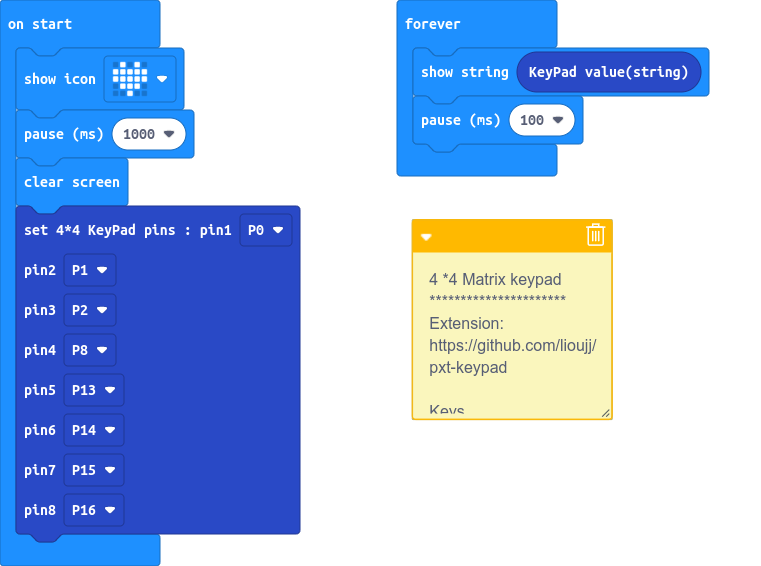
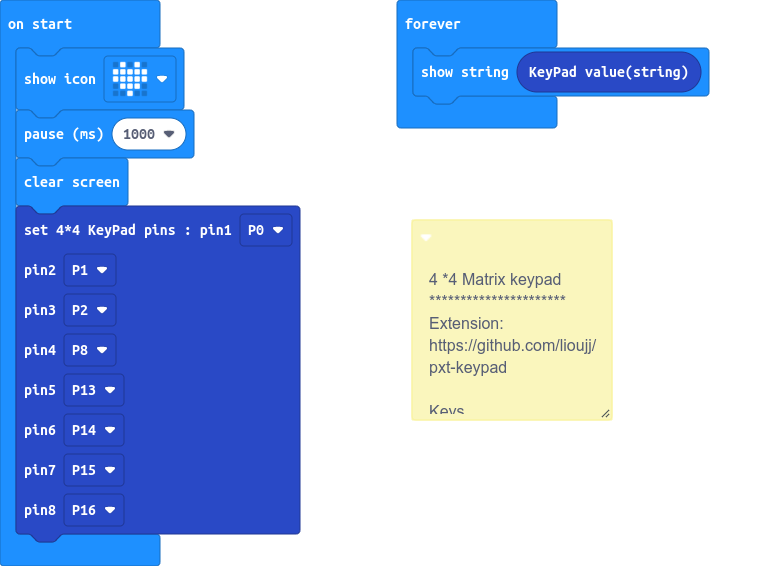
remove pause after key pressed

diff --git a/main.ts b/main.ts
@@ -32,5 +32,4 @@ DigitalPin.P16
 )
 basic.forever(function () {
     basic.showString(keypad.getKeyString())
-    basic.pause(100)
 })
